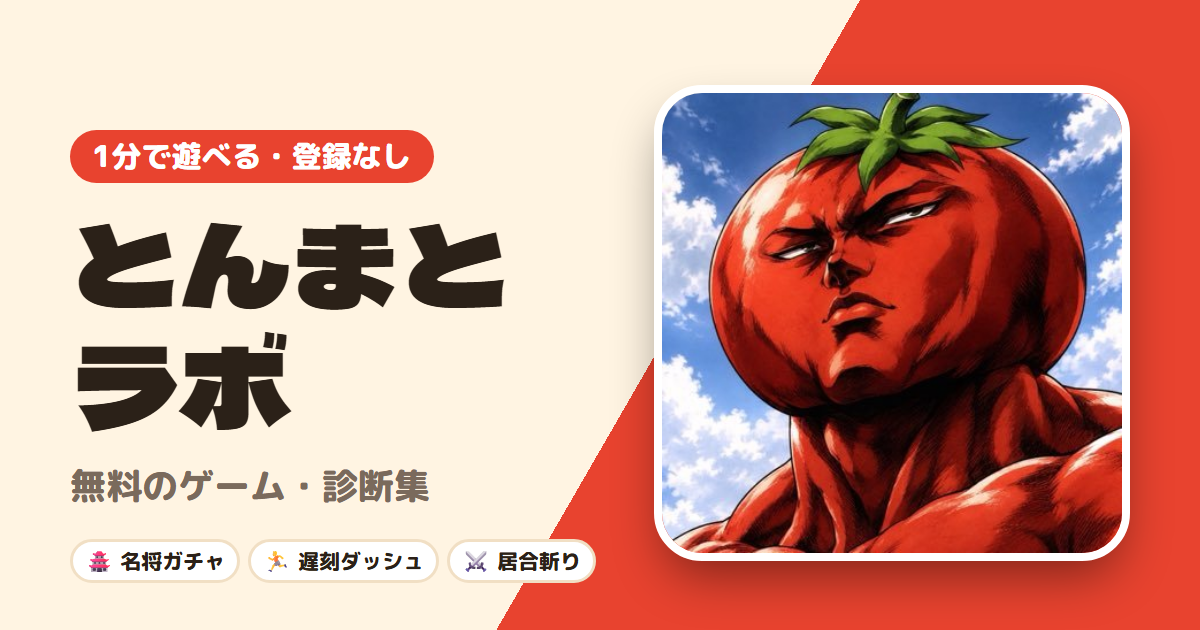
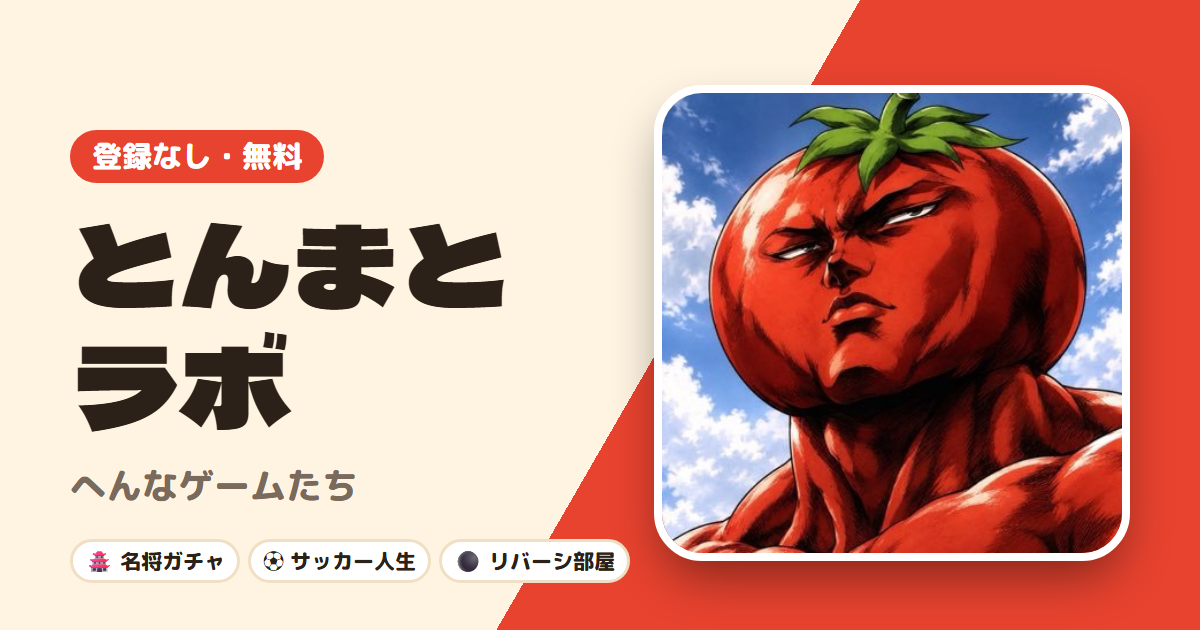
App list: genre shelves, pastel sticker look, new title
- Group apps into みんなと / ひとりで / 診断・クイズ shelves (horizontal scroll, sorted by plays) with jump chips; shelf set per app in shared/apps.js
- Restyle from beige neumorphism to a polka-dot pastel look with outlined sticker cards, Mochiy Pop One / Fredoka
- Retitle to 「登録なしで遊べる、へんなゲームたち」 and drop "1分" from lead, meta, manifest, README and the OG image

diff --git a/index.html b/index.html
@@ -3,119 +3,143 @@
 <head>
 <meta charset="utf-8">
 <meta name="viewport" content="width=device-width, initial-scale=1">
-<title>とんまとラボ｜1分で遊べる無料ゲーム・診断集</title>
-<meta name="description" content="1分で遊べる無料のゲーム・診断集。戦国武将ガチャ、遅刻ダッシュ、居合斬りなど。">
+<title>とんまとラボ｜登録なしで遊べる、へんなゲームたち</title>
+<meta name="description" content="ひとりでも、友達とでも。登録なし・無料でブラウザから遊べるゲームと診断。名将ガチャ、サッカー人生、リバーシ部屋など。">
 <meta property="og:type" content="website">
-<meta property="og:title" content="とんまとラボ🍅 1分で遊べる無料ゲーム・診断集">
-<meta property="og:description" content="名将ガチャ、遅刻ダッシュ、居合斬り…ぜんぶ無料・登録なしで遊べます">
+<meta property="og:title" content="とんまとラボ🍅 登録なしで遊べる、へんなゲームたち">
+<meta property="og:description" content="名将ガチャ、サッカー人生、リバーシ部屋…ひとりでも友達とでも、ぜんぶ無料・登録なし">
 <meta property="og:image" content="https://tonmatolab.github.io/apps/og.png">
 <meta name="twitter:card" content="summary_large_image">
 <link rel="manifest" href="manifest.webmanifest">
 <link rel="apple-touch-icon" href="icons/icon-192.png">
 <link rel="icon" href="icons/icon-192.png">
-<meta name="theme-color" content="#eee6db" media="(prefers-color-scheme: light)">
-<meta name="theme-color" content="#2a2521" media="(prefers-color-scheme: dark)">
+<meta name="theme-color" content="#fff4f7" media="(prefers-color-scheme: light)">
+<meta name="theme-color" content="#2a2030" media="(prefers-color-scheme: dark)">
 <link rel="preconnect" href="https://fonts.googleapis.com">
 <link rel="preconnect" href="https://fonts.gstatic.com" crossorigin>
-<link href="https://fonts.googleapis.com/css2?family=Outfit:wght@500;700&family=Zen+Maru+Gothic:wght@500;700;900&display=swap" rel="stylesheet">
+<link href="https://fonts.googleapis.com/css2?family=Fredoka:wght@500;600;700&family=Mochiy+Pop+One&family=Zen+Maru+Gothic:wght@500;700;900&display=swap" rel="stylesheet">
 <style>
   :root {
-    --bg: #eee6db; --card: #f5eee5; --ink: #3b2f26; --sub: #8c7b6c; --soft: #e6dccf; --red: #e8543c; --red2: #f2795f;
-    --hi: rgba(255,255,255,.85); --lo: rgba(150,122,92,.32); --lo2: rgba(150,122,92,.18);
-    --clay: 9px 9px 18px var(--lo), -7px -7px 16px var(--hi), inset 2px 2px 3px rgba(255,255,255,.7), inset -3px -4px 8px var(--lo2);
-    --clay-s: 5px 5px 10px var(--lo), -4px -4px 9px var(--hi), inset 1px 1px 2px rgba(255,255,255,.7), inset -2px -3px 5px var(--lo2);
-    --pressed: inset 5px 5px 10px var(--lo), inset -5px -5px 10px var(--hi);
-    --latin: "Outfit", system-ui, sans-serif; --ja: "Zen Maru Gothic", system-ui, sans-serif;
+    --bg: #fff4f7; --dot: #ffdfe8; --card: #fffdfb; --ink: #4d3340; --sub: #9c7b8b; --soft: #fbe9ee;
+    --line: #4d3340; --shade: #f4bccb;
+    --pink: #ff7aa2; --pink-l: #ffe1ea; --pink-d: #d9426f;
+    --yellow: #ffd65c; --yellow-l: #fff1b8; --yellow-d: #7a5200;
+    --red: #ff6b5e;
+    --pop: "Mochiy Pop One", "Zen Maru Gothic", system-ui, sans-serif;
+    --latin: "Fredoka", system-ui, sans-serif; --ja: "Zen Maru Gothic", system-ui, sans-serif;
   }
   @media (prefers-color-scheme: dark) {
-    :root { --bg: #2a2521; --card: #302a25; --ink: #f2e9df; --sub: #a99a8b; --soft: #26211d;
-      --hi: rgba(255,240,225,.06); --lo: rgba(0,0,0,.55); --lo2: rgba(0,0,0,.3);
-      --clay: 9px 9px 18px var(--lo), -6px -6px 14px var(--hi), inset 2px 2px 3px rgba(255,240,225,.07), inset -3px -4px 8px var(--lo2);
-      --clay-s: 5px 5px 10px var(--lo), -4px -4px 9px var(--hi), inset 1px 1px 2px rgba(255,240,225,.07), inset -2px -3px 5px var(--lo2); }
+    :root { --bg: #2a2030; --dot: #362a3e; --card: #382c40; --ink: #fff0f5; --sub: #c9adbd; --soft: #2f2436;
+      --line: #f6dbe6; --shade: #17111b; --yellow-l: #5a4a1c; }
   }
   * { box-sizing: border-box; }
   html { -webkit-tap-highlight-color: transparent; }
-  body { margin: 0; background: var(--bg); color: var(--ink); font-family: var(--ja); line-height: 1.6; -webkit-font-smoothing: antialiased; }
+  body { margin: 0; color: var(--ink); font-family: var(--ja); line-height: 1.6; -webkit-font-smoothing: antialiased;
+    background: var(--bg) radial-gradient(var(--dot) 2.5px, transparent 3px) 0 0 / 24px 24px; }
   main { max-width: 600px; margin: 0 auto; padding: 0 18px 56px; }
   a { color: inherit; text-decoration: none; }
 
   /* ヘッダー */
   .top { display: flex; align-items: center; justify-content: space-between; height: 64px; }
-  .wm { font-family: var(--latin); font-weight: 700; font-size: .95rem; letter-spacing: .16em; }
-  .wm span { color: var(--red); }
-  .top small { font-family: var(--latin); font-size: .68rem; font-weight: 500; letter-spacing: .14em; color: var(--sub); padding: 5px 12px; border-radius: 99px; box-shadow: var(--pressed); }
+  .wm { font-family: var(--latin); font-weight: 700; font-size: 1.1rem; letter-spacing: .06em; }
+  .wm span { color: var(--pink); }
+  .top small { font-family: var(--latin); font-size: .7rem; font-weight: 600; letter-spacing: .1em; padding: 3px 12px; border-radius: 99px;
+    background: var(--card); border: 2px solid var(--line); box-shadow: 0 3px 0 var(--shade); }
 
   /* ヒーロー */
-  .hero { display: grid; grid-template-columns: minmax(0, 1fr) auto; align-items: center; gap: 14px; padding: 22px 0 6px; }
-  .eyebrow { margin: 0 0 12px; display: inline-block; font-family: var(--latin); font-size: .68rem; font-weight: 700; letter-spacing: .18em; color: var(--red); }
-  h1 { margin: 0; font-weight: 900; font-size: clamp(1.45rem, 6.5vw, 2.4rem); line-height: 1.3; letter-spacing: -.01em; }
-  h1 em { font-style: normal; color: var(--red); }
+  .hero { display: grid; grid-template-columns: minmax(0, 1fr) auto; align-items: center; gap: 14px; padding: 20px 0 6px; }
+  .eyebrow { margin: 0 0 12px; display: inline-block; font-family: var(--latin); font-size: .72rem; font-weight: 600; letter-spacing: .1em; color: var(--pink-d); }
+  .eyebrow::before { content: '✦ '; color: var(--yellow); }
+  h1 { margin: 0; font-family: var(--pop); font-weight: 400; font-size: clamp(1.45rem, 6.6vw, 2.4rem); line-height: 1.4; }
+  h1 em { font-style: normal; color: var(--pink); background: linear-gradient(transparent 64%, var(--yellow-l) 0); padding: 0 2px; }
   h1 .nw { white-space: nowrap; display: inline-block; }
-  .lead { margin: 12px 0 0; color: var(--sub); font-size: .86rem; font-weight: 500; }
-  .logo-wrap { display: flex; flex-direction: column; align-items: center; gap: 10px; }
-  .logo { position: relative; width: 90px; height: 90px; padding: 8px; border: none; border-radius: 50%; background: var(--card); cursor: pointer; box-shadow: var(--clay);
-    touch-action: manipulation; -webkit-touch-callout: none; user-select: none; -webkit-user-select: none; transition: box-shadow .15s, transform .15s; }
-  .logo:active { box-shadow: var(--pressed); transform: scale(.97); }
+  .lead { margin: 12px 0 0; color: var(--sub); font-size: .86rem; font-weight: 700; }
+  .logo-wrap { position: relative; display: flex; flex-direction: column; align-items: center; gap: 10px; }
+  .logo-wrap::before, .logo-wrap::after { position: absolute; pointer-events: none; font-size: 1.1rem; animation: twinkle 2.4s ease-in-out infinite; }
+  .logo-wrap::before { content: '✦'; left: -10px; top: -6px; color: var(--yellow); }
+  .logo-wrap::after { content: '♡'; right: -10px; top: 52px; color: var(--pink); animation-delay: 1.2s; }
+  @keyframes twinkle { 0%, 100% { transform: scale(1) rotate(0); } 50% { transform: scale(1.25) rotate(12deg); } }
+  .logo { position: relative; width: 92px; height: 92px; padding: 5px; border: 2.5px solid var(--line); border-radius: 50%; background: var(--card); cursor: pointer;
+    box-shadow: 0 5px 0 var(--shade); touch-action: manipulation; -webkit-touch-callout: none; user-select: none; -webkit-user-select: none; transition: box-shadow .12s, transform .12s; }
+  .logo:active { box-shadow: 0 1px 0 var(--shade); transform: translateY(4px); }
   .logo img { width: 100%; height: 100%; border-radius: 50%; display: block; pointer-events: none; }
-  .logo .press { position: absolute; inset: -5px; border-radius: 50%; border: 3px solid var(--red); opacity: 0; pointer-events: none;
+  .logo .press { position: absolute; inset: -7px; border-radius: 50%; border: 3px solid var(--pink); opacity: 0; pointer-events: none;
     -webkit-mask: conic-gradient(#000 var(--p, 0%), transparent 0); mask: conic-gradient(#000 var(--p, 0%), transparent 0); }
   .logo.holding .press { opacity: 1; }
-  .hint { font-size: .64rem; font-weight: 700; color: var(--sub); letter-spacing: .04em; white-space: nowrap; display: flex; align-items: center; gap: 4px; }
+  .hint { font-size: .66rem; font-weight: 700; color: var(--sub); white-space: nowrap; display: flex; align-items: center; gap: 4px; }
   .hint::before { content: '☝'; display: inline-block; animation: poke 1.6s ease-in-out infinite; }
   @keyframes poke { 0%, 60%, 100% { transform: translateY(0); } 30% { transform: translateY(-3px); } }
   .hint.gone { opacity: 0; transition: opacity .6s; }
 
-  /* 数字 */
-  .stats { display: grid; grid-template-columns: repeat(3, 1fr); gap: 12px; margin: 26px 0 0; }
-  .stats div { background: var(--card); border-radius: 22px; padding: 12px 6px 10px; text-align: center; box-shadow: var(--clay-s); }
-  .stats b { display: block; font-family: var(--latin); font-weight: 700; font-size: 1.6rem; line-height: 1.1; font-variant-numeric: tabular-nums; }
-  .stats div:first-child b { color: var(--red); }
-  .stats span { display: block; margin-top: 4px; font-size: .66rem; font-weight: 700; color: var(--sub); }
+  /* 数字：パステルの丸いふせん */
+  .stats { display: grid; grid-template-columns: repeat(3, 1fr); gap: 10px; margin: 24px 0 0; }
+  .stats div { border-radius: 20px; padding: 10px 4px 8px; text-align: center; border: 2px solid var(--line); box-shadow: 0 4px 0 var(--shade); }
+  .stats div:nth-child(1) { background: #ffe1ea; color: #c93a66; }
+  .stats div:nth-child(2) { background: #ebe4ff; color: #5d43c9; }
+  .stats div:nth-child(3) { background: #d8f4ea; color: #16876b; }
+  .stats b { display: block; font-family: var(--latin); font-weight: 600; font-size: 1.6rem; line-height: 1.1; font-variant-numeric: tabular-nums; }
+  .stats span { display: block; margin-top: 3px; font-size: .64rem; font-weight: 700; }
 
-  .install { display: none; margin: 18px auto 0; font: inherit; font-weight: 700; font-size: .76rem; border: none; border-radius: 99px; padding: 9px 20px; cursor: pointer; color: #fff;
-    background: linear-gradient(145deg, var(--red2), var(--red)); box-shadow: 6px 6px 14px var(--lo), -5px -5px 12px var(--hi), inset 2px 2px 4px rgba(255,255,255,.35), inset -3px -4px 8px rgba(120,30,10,.25); }
-  .install:active { box-shadow: inset 4px 4px 10px rgba(120,30,10,.4); }
+  .install { display: none; margin: 18px auto 0; font: inherit; font-weight: 700; font-size: .76rem; border: 2px solid var(--line); border-radius: 99px; padding: 7px 18px; cursor: pointer;
+    color: #fff; background: var(--pink); box-shadow: 0 4px 0 var(--shade); }
+  .install:active { transform: translateY(3px); box-shadow: 0 1px 0 var(--shade); }
   .install.on { display: block; }
   #iosTip { display: none; margin: 10px 0 0; font-size: .76rem; color: var(--sub); text-align: center; }
 
-  /* 見出し */
-  .sec { display: flex; align-items: center; justify-content: space-between; margin: 38px 0 16px; }
-  .sec h2 { margin: 0; font-weight: 900; font-size: 1.08rem; }
-  .sec h2 small { margin-left: 8px; font-family: var(--latin); font-weight: 700; font-size: .66rem; letter-spacing: .16em; color: var(--sub); }
-  .sec span { font-family: var(--latin); font-size: .7rem; font-weight: 700; color: var(--sub); padding: 4px 12px; border-radius: 99px; box-shadow: var(--pressed); }
-
-  .pick { margin: 26px 0 0; }
+  .pick { margin: 24px 0 0; }
   .pick .tile { display: flex; }
-  /* カード */
-  .grid { display: grid; grid-template-columns: 1fr 1fr; gap: 16px; }
-  .tile { position: relative; display: flex; flex-direction: column; background: var(--card); border-radius: 28px; padding: 8px; box-shadow: var(--clay);
-    transition: transform .2s cubic-bezier(.2,.8,.2,1), box-shadow .2s; }
-  .tile:active { transform: scale(.98); box-shadow: var(--pressed); }
-  .tile.wide { grid-column: 1 / -1; }
-  .tile .ph { position: relative; aspect-ratio: 1200 / 630; overflow: hidden; border-radius: 21px; background: var(--soft); }
+
+  /* ジャンル札 */
+  .chips { display: flex; flex-wrap: wrap; gap: 10px; margin: 36px 0 0; }
+  .chip { font-size: .8rem; font-weight: 900; color: var(--cd); background: var(--c); padding: 6px 15px; border-radius: 99px;
+    border: 2px solid var(--line); box-shadow: 0 3px 0 var(--shade); }
+  .chip:active { transform: translateY(2px); box-shadow: 0 1px 0 var(--shade); }
+
+  /* 遊び方ごとの棚（横スクロール） */
+  .shelf { margin: 32px 0 0; scroll-margin-top: 16px; }
+  .shelf-h { display: flex; align-items: center; gap: 10px; margin: 0 0 2px; }
+  .shelf-h h2 { margin: 0; font-family: var(--pop); font-weight: 400; font-size: 1.22rem; line-height: 1.4; }
+  .shelf-h h2::before { content: ''; display: inline-block; width: 13px; height: 13px; margin-right: 9px; border-radius: 50%; background: var(--c); border: 2px solid var(--cd); vertical-align: .05em; }
+  .shelf-h h2 small { margin-left: 8px; font-family: var(--latin); font-weight: 600; font-size: .7rem; letter-spacing: .08em; color: var(--cd); }
+  .shelf-h span { margin-left: auto; font-family: var(--latin); font-size: .74rem; font-weight: 600; color: var(--cd); background: var(--c); padding: 1px 11px; border-radius: 99px; }
+  .row { display: flex; gap: 14px; overflow-x: auto; scroll-snap-type: x mandatory; overscroll-behavior-x: contain;
+    margin: 0 -18px; padding: 10px 18px 16px; scroll-padding: 0 18px; scrollbar-width: none; }
+  .row::-webkit-scrollbar { display: none; }
+  .row .tile { flex: 0 0 78%; scroll-snap-align: start; }
+  .row .tile:only-child { flex-basis: 100%; }
+  @media (min-width: 560px) { .row .tile { flex-basis: 44%; } }
+  /* 重力ギミック中は棚からはみ出して落ちられるように */
+  .gravity .row { overflow: visible; }
+  /* カード：ふちどりステッカー */
+  .tile { position: relative; display: flex; flex-direction: column; background: var(--card); border-radius: 24px; padding: 7px; border: 2px solid var(--line);
+    box-shadow: 0 5px 0 var(--shade); transition: transform .12s, box-shadow .12s; }
+  .tile:active { transform: translateY(4px); box-shadow: 0 1px 0 var(--shade); }
+  .tile .ph { position: relative; aspect-ratio: 1200 / 630; overflow: hidden; border-radius: 18px; background: var(--soft); }
   .tile .ph img { width: 100%; height: 100%; object-fit: cover; display: block; transition: transform .6s cubic-bezier(.2,.8,.2,1); }
   .tile:hover .ph img { transform: scale(1.04); }
-  .tile .body { display: flex; flex-direction: column; gap: 4px; flex: 1; padding: 10px 8px 6px; }
-  .tile .meta { display: flex; align-items: center; gap: 6px; white-space: nowrap; overflow: hidden; font-family: var(--latin); font-size: .64rem; font-weight: 700; color: var(--sub); }
-  .tile .meta .tag { font-family: var(--ja); padding: 1px 9px; border-radius: 99px; box-shadow: var(--pressed); }
-  .tile .meta .new { color: #fff; background: var(--red); padding: 1px 8px; border-radius: 99px; letter-spacing: .08em; }
+  .tile .body { display: flex; flex-direction: column; gap: 3px; flex: 1; padding: 9px 7px 4px; }
+  .tile .meta { display: flex; align-items: center; gap: 6px; white-space: nowrap; overflow: hidden; font-size: .64rem; font-weight: 700; }
+  .tile .meta .tag { padding: 1px 9px; border-radius: 99px; background: var(--c, var(--pink-l)); color: var(--cd, var(--pink-d)); }
+  .tile .meta .new { font-family: var(--latin); font-weight: 600; letter-spacing: .06em; color: var(--yellow-d); background: var(--yellow); padding: 1px 8px; border-radius: 99px; }
   .tile .t { font-weight: 900; font-size: .92rem; line-height: 1.4; }
   .tile .d { font-size: .73rem; font-weight: 500; color: var(--sub); line-height: 1.5; display: -webkit-box; -webkit-line-clamp: 2; -webkit-box-orient: vertical; overflow: hidden; }
-  .tile .foot { display: flex; align-items: center; justify-content: space-between; margin-top: auto; padding-top: 8px; font-family: var(--latin); font-size: .7rem; font-weight: 500; color: var(--sub); }
-  .tile .foot i { font-style: normal; width: 32px; height: 32px; border-radius: 50%; display: grid; place-items: center; background: var(--card); color: var(--red); font-weight: 700; box-shadow: var(--clay-s); }
+  .tile .foot { display: flex; align-items: center; justify-content: space-between; margin-top: auto; padding-top: 8px; font-family: var(--latin); font-size: .72rem; font-weight: 500; color: var(--sub); }
+  .tile .foot i { font-style: normal; width: 30px; height: 30px; border-radius: 50%; display: grid; place-items: center; font-family: var(--latin); font-weight: 700;
+    background: var(--c, var(--pink-l)); color: var(--cd, var(--pink-d)); }
   .tile.wide .t { font-size: 1.2rem; }
   .tile.wide .d { font-size: .8rem; }
-  .tile.wide .hot { position: absolute; left: 12px; top: 12px; font-family: var(--latin); font-size: .66rem; font-weight: 700; letter-spacing: .12em; padding: 5px 12px;
-    border-radius: 99px; background: rgba(255,250,244,.94); color: #3b2f26; box-shadow: 0 4px 10px rgba(0,0,0,.18); }
-  .tile.wide .hot b { color: var(--red); }
+  .tile.wide .hot { position: absolute; left: 10px; top: 10px; font-family: var(--latin); font-size: .7rem; font-weight: 600; letter-spacing: .06em; padding: 2px 12px;
+    border-radius: 99px; background: var(--yellow); color: #4d3340; border: 2px solid #4d3340; }
+  .tile.wide .hot::before { content: '♛ '; }
+  .tile.wide .hot b { font-weight: 700; color: #d9426f; }
 
-  footer { margin-top: 48px; text-align: center; font-size: .72rem; color: var(--sub); }
-  footer b { font-family: var(--latin); letter-spacing: .16em; color: var(--ink); }
+  footer { margin-top: 44px; text-align: center; font-size: .74rem; font-weight: 700; color: var(--sub); }
+  footer b { font-family: var(--latin); font-weight: 700; letter-spacing: .06em; color: var(--ink); }
 
   /* スクロールでぷにっと出る */
   .rv { opacity: 0; transform: translateY(18px) scale(.97); transition: opacity .6s ease, transform .7s cubic-bezier(.3,1.5,.5,1); }
   .rv.in { opacity: 1; transform: none; }
-  @media (prefers-reduced-motion: reduce) { .rv { opacity: 1; transform: none; transition: none; } .hint::before { animation: none; } }
+  @media (prefers-reduced-motion: reduce) { .rv { opacity: 1; transform: none; transition: none; } .hint::before, .logo-wrap::before, .logo-wrap::after { animation: none; } }
 
   /* ギミック：トマト */
   #fx { position: fixed; inset: 0; width: 100%; height: 100%; pointer-events: none; z-index: 40; }
@@ -134,14 +158,14 @@
 <main>
   <header class="top">
     <div class="wm">TONMATO <span>LAB</span></div>
-    <small>MINI GAMES</small>
+    <small>WEB GAMES</small>
   </header>
 
   <section class="hero">
     <div>
-      <p class="eyebrow fall">FREE · NO SIGN-UP · 1 MIN</p>
+      <p class="eyebrow fall">FREE · NO SIGN-UP · IN BROWSER</p>
       <h1 class="fall"><span class="nw">くだらないことに、</span><br><span class="nw"><em>全力</em>で。</span></h1>
-      <p class="lead fall">1分で遊べるゲームと診断。<br>登録なし・無料。</p>
+      <p class="lead fall">ひとりでも、友達とでも。<br>登録なし・無料で遊べます。</p>
     </div>
     <div class="logo-wrap fall">
       <button class="logo" id="logo" aria-label="とんまと"><span class="press"></span><img src="icons/icon-192.png" alt="" draggable="false"></button>
@@ -160,8 +184,8 @@
   <button class="install" id="installBtn">ホーム画面に追加して、いつでも遊ぶ</button>
   <p id="iosTip">iPhoneは、共有ボタン →「ホーム画面に追加」で追加できます</p>
 
-  <div class="sec fall"><h2>ぜんぶのゲーム・診断<small>ALL APPS</small></h2><span id="secCount"></span></div>
-  <div class="grid" id="grid"></div>
+  <nav class="chips" id="chips" aria-label="ジャンル"></nav>
+  <div id="shelves"></div>
 
   <footer class="fall"><b>TONMATO LAB</b> 🍅 新しいゲームを続々公開中</footer>
 </main>
@@ -173,7 +197,13 @@ const APPS = window.TONMATO_APPS;
 const LOCAL = /^(localhost|127\.0\.0\.1)$/.test(location.hostname);
 const $ = (id) => document.getElementById(id);
 const fmt = (n) => n.toLocaleString();
-const NEW_IDS = new Set(APPS.slice().sort((x, y) => new Date(y.added) - new Date(x.added)).slice(0, 2).map((a) => a.id));
+// 一覧の棚。各アプリの shelf（shared/apps.js）でどの棚に入るか決まる
+const SHELVES = [
+  { id: 'friends', label: 'みんなと', title: 'みんなと遊ぶ', en: 'WITH OTHERS', c: '#ebe4ff', cd: '#5d43c9' },
+  { id: 'solo', label: 'ひとりで', title: 'ひとりで遊ぶ', en: 'SOLO', c: '#ffe1ea', cd: '#c93a66' },
+  { id: 'quiz', label: '診断・クイズ', title: '診断・クイズ', en: 'QUIZ', c: '#d8f4ea', cd: '#16876b' },
+];
+const NEW_IDS =new Set(APPS.slice().sort((x, y) => new Date(y.added) - new Date(x.added)).slice(0, 2).map((a) => a.id));
 async function call(path, method = 'GET') {
   try { const r = await fetch(API + path, { method, signal: AbortSignal.timeout(8000) }); return r.ok ? await r.json() : null; } catch { return null; }
 }
@@ -186,24 +216,26 @@ const esc = (s) => String(s).replace(/[&<>"]/g, (c) => ({ '&': '&amp;', '<': '&l
 function render(counts) {
   const sorted = APPS.map((a) => ({ a, n: (counts && counts[a.key]) || 0 }))
     .sort((x, y) => y.n - x.n || new Date(y.a.added) - new Date(x.a.added));
-  // 1位は横長の大きなタイル。残りが奇数なら最後も横長にしてすき間をなくす
-  const rest = sorted.length - 1;
-  const html = sorted.map((x, i) => {
-    const wide = i === 0 || (rest % 2 === 1 && i === sorted.length - 1);
-    return `<a class="tile rv fall${wide ? ' wide' : ''}" href="${x.a.path}">
-      <div class="ph"><img src="${x.a.path}og.png" alt="" loading="${i === 0 ? 'eager' : 'lazy'}" draggable="false">${i === 0 && x.n ? '<span class="hot"><b>No.1</b> POPULAR</span>' : ''}</div>
+  const tile = (x, top) => `<a class="tile rv fall${top ? ' wide' : ''}" href="${x.a.path}">
+      <div class="ph"><img src="${x.a.path}og.png" alt="" loading="${top ? 'eager' : 'lazy'}" draggable="false">${top && x.n ? '<span class="hot"><b>No.1</b> POPULAR</span>' : ''}</div>
       <div class="body">
-        <div class="meta"><span>${String(i + 1).padStart(2, '0')}</span><span class="tag">${esc(x.a.tag)}</span>${NEW_IDS.has(x.a.id) ? '<span class="new">NEW</span>' : ''}</div>
+        <div class="meta"><span class="tag">${esc(x.a.tag)}</span>${NEW_IDS.has(x.a.id) ? '<span class="new">NEW</span>' : ''}</div>
         <div class="t">${esc(x.a.title)}</div>
         <div class="d">${esc(x.a.desc)}</div>
         <div class="foot"><span>${x.n ? `${fmt(x.n)} players` : 'new'}</span><i>→</i></div>
       </div></a>`;
-  });
-  // いちばん遊ばれているアプリを数字の下の特等席に、残りを一覧に
-  $('pick').innerHTML = html[0];
-  $('grid').innerHTML = html.slice(1).join('');
+  // いちばん遊ばれているアプリを数字の下の特等席に
+  $('pick').innerHTML = tile(sorted[0], true);
+  // 遊び方ごとの棚。棚の中は遊ばれている順
+  $('chips').innerHTML = SHELVES.map((s) => `<a class="chip fall" href="#shelf-${s.id}" style="--c:${s.c};--cd:${s.cd}">${s.label}</a>`).join('');
+  $('shelves').innerHTML = SHELVES.map((s) => {
+    const items = sorted.filter((x) => (x.a.shelf || 'solo') === s.id);
+    if (!items.length) return '';
+    return `<section class="shelf" id="shelf-${s.id}" style="--c:${s.c};--cd:${s.cd}">
+      <div class="shelf-h fall"><h2>${s.title}<small>${s.en}</small></h2><span>${items.length}</span></div>
+      <div class="row">${items.map((x) => tile(x, false)).join('')}</div></section>`;
+  }).join('');
   $('count').textContent = APPS.length;
-  $('secCount').textContent = `${APPS.length} TITLES`;
   if (counts) countUp($('players'), sorted.reduce((s, x) => s + x.n, 0));
   observe();
 }
@@ -312,6 +344,7 @@ function gravityOn() {
   $('hint').classList.add('gone');
   snd('thud'); if (navigator.vibrate) navigator.vibrate([30, 40, 60]);
   document.documentElement.style.overflow = 'hidden';
+  document.body.classList.add('gravity');
   const bodies = [...document.querySelectorAll('.fall')].map((el) => {
     const r = el.getBoundingClientRect();
     if (r.bottom < 0 || r.top > VH) return null;
@@ -351,7 +384,7 @@ function gravityOff() {
   const bodies = G.bodies; G = null; $('toast').classList.remove('on');
   snd('pop');
   for (const b of bodies) { b.el.style.transition = 'transform .8s cubic-bezier(.3,1.4,.5,1)'; b.el.style.transform = ''; }
-  setTimeout(() => { for (const b of bodies) { b.el.style.transition = ''; b.el.style.willChange = ''; } document.documentElement.style.overflow = ''; }, 850);
+  setTimeout(() => { for (const b of bodies) { b.el.style.transition = ''; b.el.style.willChange = ''; } document.documentElement.style.overflow = ''; document.body.classList.remove('gravity'); }, 850);
 }
 // 落ちている間のタップは、リンクを開かずに元に戻すだけ
 document.addEventListener('click', (e) => { if (G) { e.preventDefault(); e.stopPropagation(); gravityOff(); } }, true);

diff --git a/shared/apps.js b/shared/apps.js
@@ -1,12 +1,13 @@
 // 全アプリの一覧（一覧ページと「次はこれで遊ぼう」で使う）。新しいアプリはここに1行足す
+// shelf: 一覧ページの棚（friends=みんなと（友達・オンライン） / solo=ひとりで / quiz=診断・クイズ）
 window.TONMATO_APPS = [
-  { id: 'batsu', path: 'batsu/', title: '罰ゲーム決めたげる', desc: '負けた人が決まったら、あとはおまかせ。場面と強さで罰ゲームを判決', icon: '🔨', key: 'batsu-play', added: '2026-11-23', tag: 'パーティー' },
-  { id: 'reversi', path: 'reversi/', title: 'リバーシ部屋', desc: '合言葉を送るだけで友達とすぐ対戦。登録なし、CPU練習も', icon: '⚫', key: 'reversi-play', added: '2026-11-23', tag: '対戦' },
-  { id: 'soccer', path: 'soccer-life/', title: 'サッカー人生', desc: '一人用もオンラインリーグも。移籍、海外、W杯…引退したら子どもへ', icon: '⚽', key: 'soccer-play', added: '2026-11-21', tag: '育成' },
-  { id: 'nobiru', path: 'nobiru/', title: 'のびーるトルコアイス', desc: '指で引っ張ってどこまで伸ばせる？欲張るとプツン', icon: '🍦', key: 'nobiru-play', added: '2026-11-18', tag: 'バカゲー' },
-  { id: 'bushou', path: 'bushou/', title: '名将ガチャ', desc: '名前で生まれる戦国武将。友達の名前と合戦させよう', icon: '🏯', key: 'bushou-play', added: '2026-11-17', tag: '戦国' },
-  { id: 'chikoku', path: 'chikoku/', title: '遅刻ダッシュ', desc: '8:57に駅を出発。9:00の始業に間に合うか？', icon: '🏃', key: 'chikoku-play', added: '2026-11-15', tag: 'アクション' },
-  { id: 'iai', path: 'iai/', title: '居合斬り 反射神経テスト', desc: '「斬！」の瞬間にタップ。あなたは全国何位？', icon: '⚔', key: 'iai-play', added: '2026-11-14', tag: '反射神経' },
-  { id: 'nobunaga', path: 'nobunaga-isshou/', title: '織田信長の一生クイズ', desc: '1問ミスで即死。本能寺まで完走できるか？', icon: '🔥', key: 'nobunaga-play', added: '2026-11-12', tag: 'クイズ' },
-  { id: 'coffee', path: 'coffee-shindan/', title: 'コーヒータイプ診断', desc: '8問であなたにぴったりの1杯がわかる', icon: '☕', key: 'coffee-play', added: '2026-11-11', tag: '診断' },
+  { id: 'batsu', path: 'batsu/', title: '罰ゲーム決めたげる', desc: '負けた人が決まったら、あとはおまかせ。場面と強さで罰ゲームを判決', icon: '🔨', key: 'batsu-play', added: '2026-11-23', tag: 'パーティー', shelf: 'friends' },
+  { id: 'reversi', path: 'reversi/', title: 'リバーシ部屋', desc: '合言葉を送るだけで友達とすぐ対戦。登録なし、CPU練習も', icon: '⚫', key: 'reversi-play', added: '2026-11-23', tag: '対戦', shelf: 'friends' },
+  { id: 'soccer', path: 'soccer-life/', title: 'サッカー人生', desc: '一人用もオンラインリーグも。移籍、海外、W杯…引退したら子どもへ', icon: '⚽', key: 'soccer-play', added: '2026-11-21', tag: '育成', shelf: 'friends' },
+  { id: 'nobiru', path: 'nobiru/', title: 'のびーるトルコアイス', desc: '指で引っ張ってどこまで伸ばせる？欲張るとプツン', icon: '🍦', key: 'nobiru-play', added: '2026-11-18', tag: 'バカゲー', shelf: 'solo' },
+  { id: 'bushou', path: 'bushou/', title: '名将ガチャ', desc: '名前で生まれる戦国武将。友達の名前と合戦させよう', icon: '🏯', key: 'bushou-play', added: '2026-11-17', tag: '戦国', shelf: 'solo' },
+  { id: 'chikoku', path: 'chikoku/', title: '遅刻ダッシュ', desc: '8:57に駅を出発。9:00の始業に間に合うか？', icon: '🏃', key: 'chikoku-play', added: '2026-11-15', tag: 'アクション', shelf: 'solo' },
+  { id: 'iai', path: 'iai/', title: '居合斬り 反射神経テスト', desc: '「斬！」の瞬間にタップ。あなたは全国何位？', icon: '⚔', key: 'iai-play', added: '2026-11-14', tag: '反射神経', shelf: 'solo' },
+  { id: 'nobunaga', path: 'nobunaga-isshou/', title: '織田信長の一生クイズ', desc: '1問ミスで即死。本能寺まで完走できるか？', icon: '🔥', key: 'nobunaga-play', added: '2026-11-12', tag: 'クイズ', shelf: 'quiz' },
+  { id: 'coffee', path: 'coffee-shindan/', title: 'コーヒータイプ診断', desc: '8問であなたにぴったりの1杯がわかる', icon: '☕', key: 'coffee-play', added: '2026-11-11', tag: '診断', shelf: 'quiz' },
 ];

diff --git a/og.html b/og.html
@@ -12,7 +12,7 @@
   .chips span { background: #fff; border: 3px solid #f1dfc4; border-radius: 99px; padding: 3px 12px; font-size: 21px; white-space: nowrap; }
   img { position: absolute; right: 70px; top: 85px; width: 460px; height: 460px; border-radius: 48px; border: 8px solid #fff; box-shadow: 0 24px 50px -10px rgba(0,0,0,.45); object-fit: cover; }
 </style></head><body>
-<div class="txt"><span class="k">1分で遊べる・登録なし</span><h1>とんまと<br>ラボ</h1><p>無料のゲーム・診断集</p>
-<div class="chips"><span>🏯 名将ガチャ</span><span>🏃 遅刻ダッシュ</span><span>⚔ 居合斬り</span></div></div>
+<div class="txt"><span class="k">登録なし・無料</span><h1>とんまと<br>ラボ</h1><p>へんなゲームたち</p>
+<div class="chips"><span>🏯 名将ガチャ</span><span>⚽ サッカー人生</span><span>⚫ リバーシ部屋</span></div></div>
 <img src="icons/logo.jpg" alt="">
 </body></html>

diff --git a/README.md b/README.md
@@ -1,5 +1,5 @@
 # とんまとラボ
 
-1分で遊べる無料の診断・ミニゲーム集です。
+登録なし・無料で遊べる、へんなゲームと診断の置き場です。ひとりでも、友達とでも。
 
 ▶ https://tonmatolab.github.io/apps/
